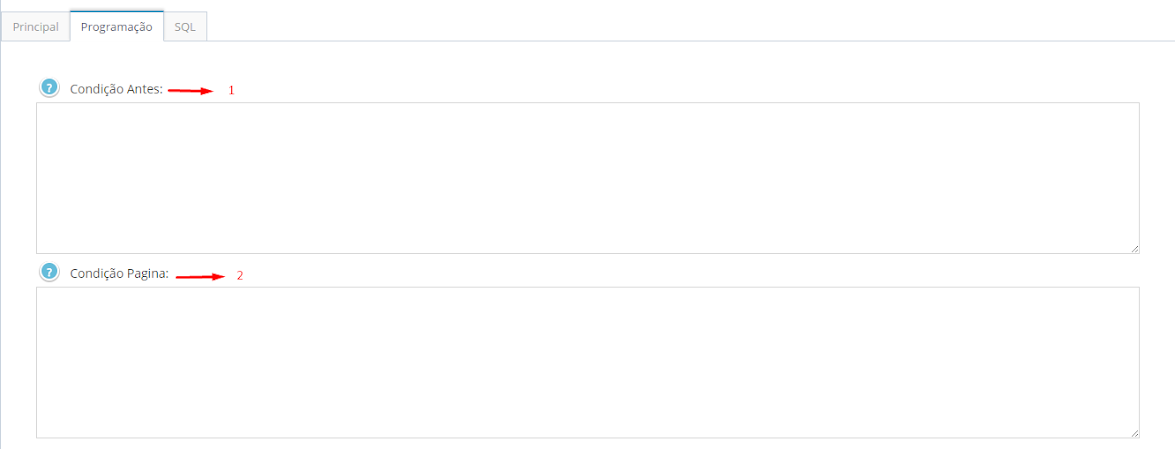
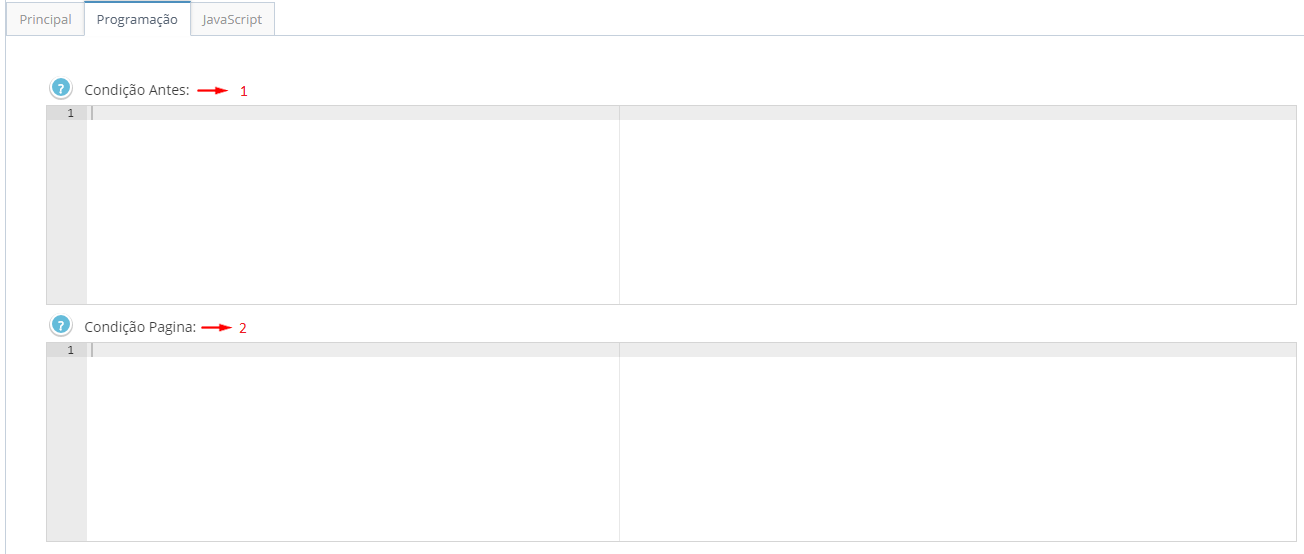
Atualizando imagens e textos

diff --git a/_posts/2018-06-18-criar-pagina.md b/_posts/2018-06-18-criar-pagina.md
@@ -7,21 +7,20 @@ pasta: "Questionario"
 ---
 # Criar Página
 
-1. No "menu" principal temos:
-    1. Agrupamento: Utilizado para rodiziar a página;
-    2. Descrição: Texto que aparece em destaque na página;
-    3. Texto alternativo: Texto que aparece abaixo do texto destacado na página;
-    4. Rodapé: Texto que aparece no rodapé da página;
-    5. Mostrar: Define se a página será mostrada ou não.
-
 ![Imagem de apoio 1]({{ "/assets/img/criar-pagina-01.png" | prepend: site.baseurl }})
 
-{:Start="2"}
-2. No "menu" programação temos:
-    1. Condição antes: Lugar para colocar a programação que será processada antes de entrar na página;
-    2. Condição na página: Lugar para colocar a programação que será processada na página.
+1. No "menu" principal temos:
+    1. Agrup. Página: Utilizado para rodiziar a página;
+    2. Bloco: Agrupa bloco de páginas;
+    3. Grupo Bloco: Classifica grupo de páginas;
+    4. Container Bloco: Fixar ordem de blocos agrupados;
+    5. Topo: Texto que aparece em destaque na página;
+    6. Sub topo: Texto que aparece abaixo do texto destacado na página;
+    7. Rodapé: Texto que aparece no rodapé da página.
 
 ![Imagem de apoio 2]({{ "/assets/img/criar-pagina-02.png" | prepend: site.baseurl }})
 
-{:Start="3"}
-3. Menu "SQL" está obsoleto.
+{:Start="2"}
+2. No "menu" programação temos:
+    1. Condição Antes: Lugar para colocar a programação que será processada antes de entrar na página;
+    2. Condição Página: Lugar para colocar a programação que será processada na página.
